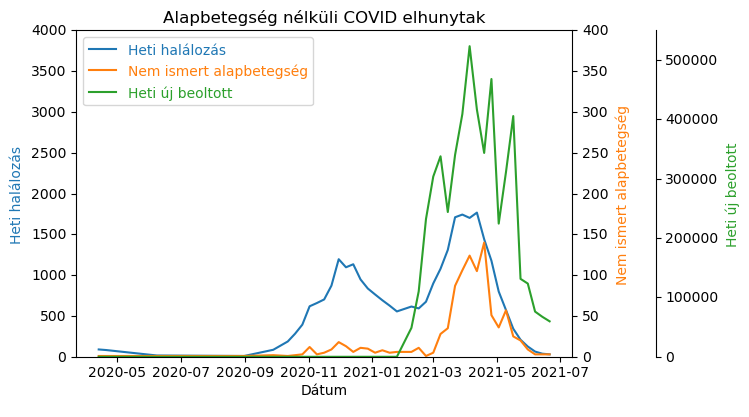
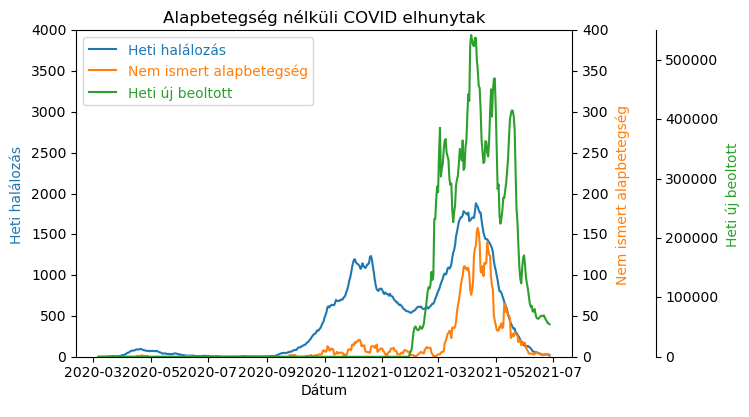
Újabb mozgó átlag

Changed region(s): [[0.0921, 0.0935, 0.7984, 0.9041]]

diff --git a/kép_alapbetegség_nélküli_elhunytak.py b/kép_alapbetegség_nélküli_elhunytak.py
@@ -15,25 +15,21 @@ def isHealthy(c):
     lower = c.lower()
     return ('nem' in lower) and ('ismert' in lower)
 
+dfcv = pd.read_csv(BASEDIR +"/adatok/covidadatok.csv", parse_dates=['Dátum'])
+dfcvroll = dfcv.rolling(7, center=True, min_periods=7).sum()
+dfcv['Heti halálozás'] = dfcvroll['Napi új elhunyt']
+dfcv['Heti új beoltott'] = dfcvroll['Napi új beoltott']
+
 df = pd.read_csv(BASEDIR +"/adatok/elhunytak_datummal.csv", parse_dates=['Dátum'])
-
-df['Hét kezdet'] = df.apply(lambda row: row['Dátum'] - dt.timedelta(days=row['Dátum'].weekday()), axis=1)
-
-dfhetimind = df.groupby('Hét kezdet', as_index=False).count()
-dffiltered = dfhetimind[['Hét kezdet', 'Sorszám']].rename(columns = {'Sorszám': 'Heti összes'}, inplace = False)
-
-df = pd.merge(df, dffiltered, left_on = 'Hét kezdet', right_on = 'Hét kezdet')
 df = df[np.vectorize(isHealthy)(df['Alapbetegségek'])].reset_index()
+dfnapimind = df.groupby('Dátum', as_index=False).count()
+dfnapimind = dfnapimind[['Dátum','Alapbetegségek']].rename(columns = {'Alapbetegségek': 'Napi nem ismert alapbetegség'}, inplace = False)
 
-dfheti = (df.groupby('Hét kezdet', as_index=False).agg(['mean', 'count'], as_index = False))
-dfheti = dfheti['Heti összes'].reset_index().rename(columns = {'Hét kezdet': 'Dátum', 'mean': 'Heti halálozás', 'count': 'Nem ismert alapbetegség'}, inplace = False)
+df = pd.merge(dfcv[['Dátum']], dfnapimind, left_on = 'Dátum', right_on = 'Dátum', how="outer").fillna(0)
+dfroll = df.rolling(7, center=True, min_periods=7).sum()
+df['Nem ismert alapbetegség'] = dfroll['Napi nem ismert alapbetegség']
 
-dfoltas = pd.read_csv(BASEDIR +"/adatok/covidadatok.csv", parse_dates=['Dátum'])
-dfoltas['Hét kezdet'] = dfoltas.apply(lambda row: row['Dátum'] - dt.timedelta(days=row['Dátum'].weekday()), axis=1)
-dfoltasmind = dfoltas.groupby('Hét kezdet', as_index=False).sum().reset_index()
-dfoltasmind = dfoltasmind[['Hét kezdet', 'Napi új beoltott']].rename(columns = {'Hét kezdet': 'Dátum', 'Napi új beoltott': 'Heti új beoltott'}, inplace = False)
-
-dfheti = pd.merge(dfheti, dfoltasmind, left_on = 'Dátum', right_on = 'Dátum')
+df = pd.merge(dfcv, df, left_on = 'Dátum', right_on = 'Dátum', how="outer")
 
 pd.plotting.register_matplotlib_converters()
 
@@ -63,9 +59,9 @@ par2.set_ylabel("Heti új beoltott")
 par2.set_ylim([0, 550000])
 par2.axis[:].major_ticks.set_tick_out(True)
 
-p1, = host.plot(dfheti['Dátum'], dfheti['Heti halálozás'], label="Heti halálozás")
-p2, = par1.plot(dfheti['Dátum'], dfheti['Nem ismert alapbetegség'], label="Nem ismert alapbetegség")
-p3, = par2.plot(dfheti['Dátum'], dfheti['Heti új beoltott'], label="Heti új beoltott")
+p1, = host.plot(df['Dátum'], df['Heti halálozás'], label="Heti halálozás")
+p2, = par1.plot(df['Dátum'], df['Nem ismert alapbetegség'], label="Nem ismert alapbetegség")
+p3, = par2.plot(df['Dátum'], df['Heti új beoltott'], label="Heti új beoltott")
 
 leg = plt.legend(loc='upper left')
 
